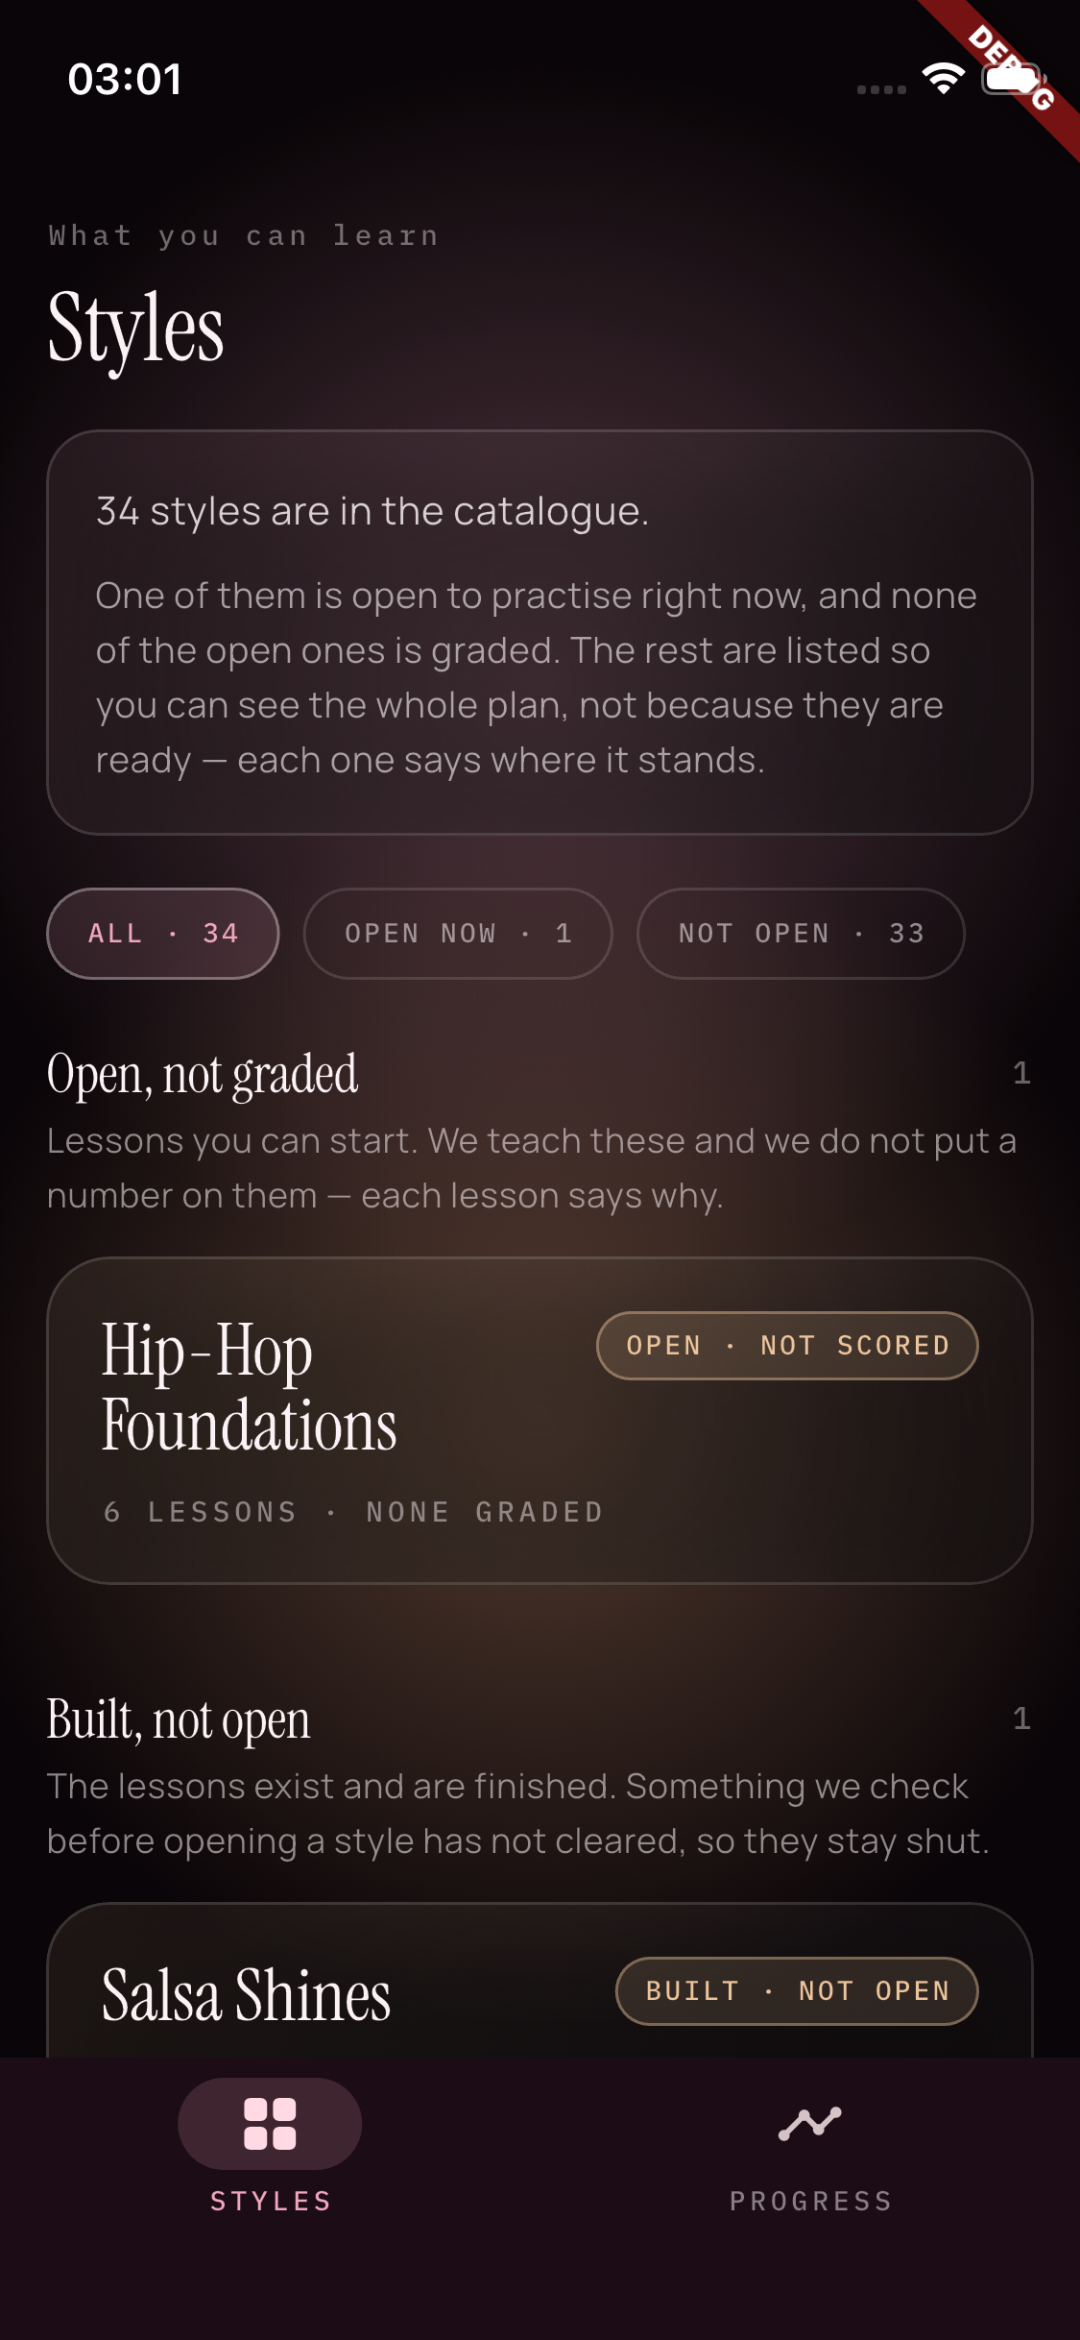
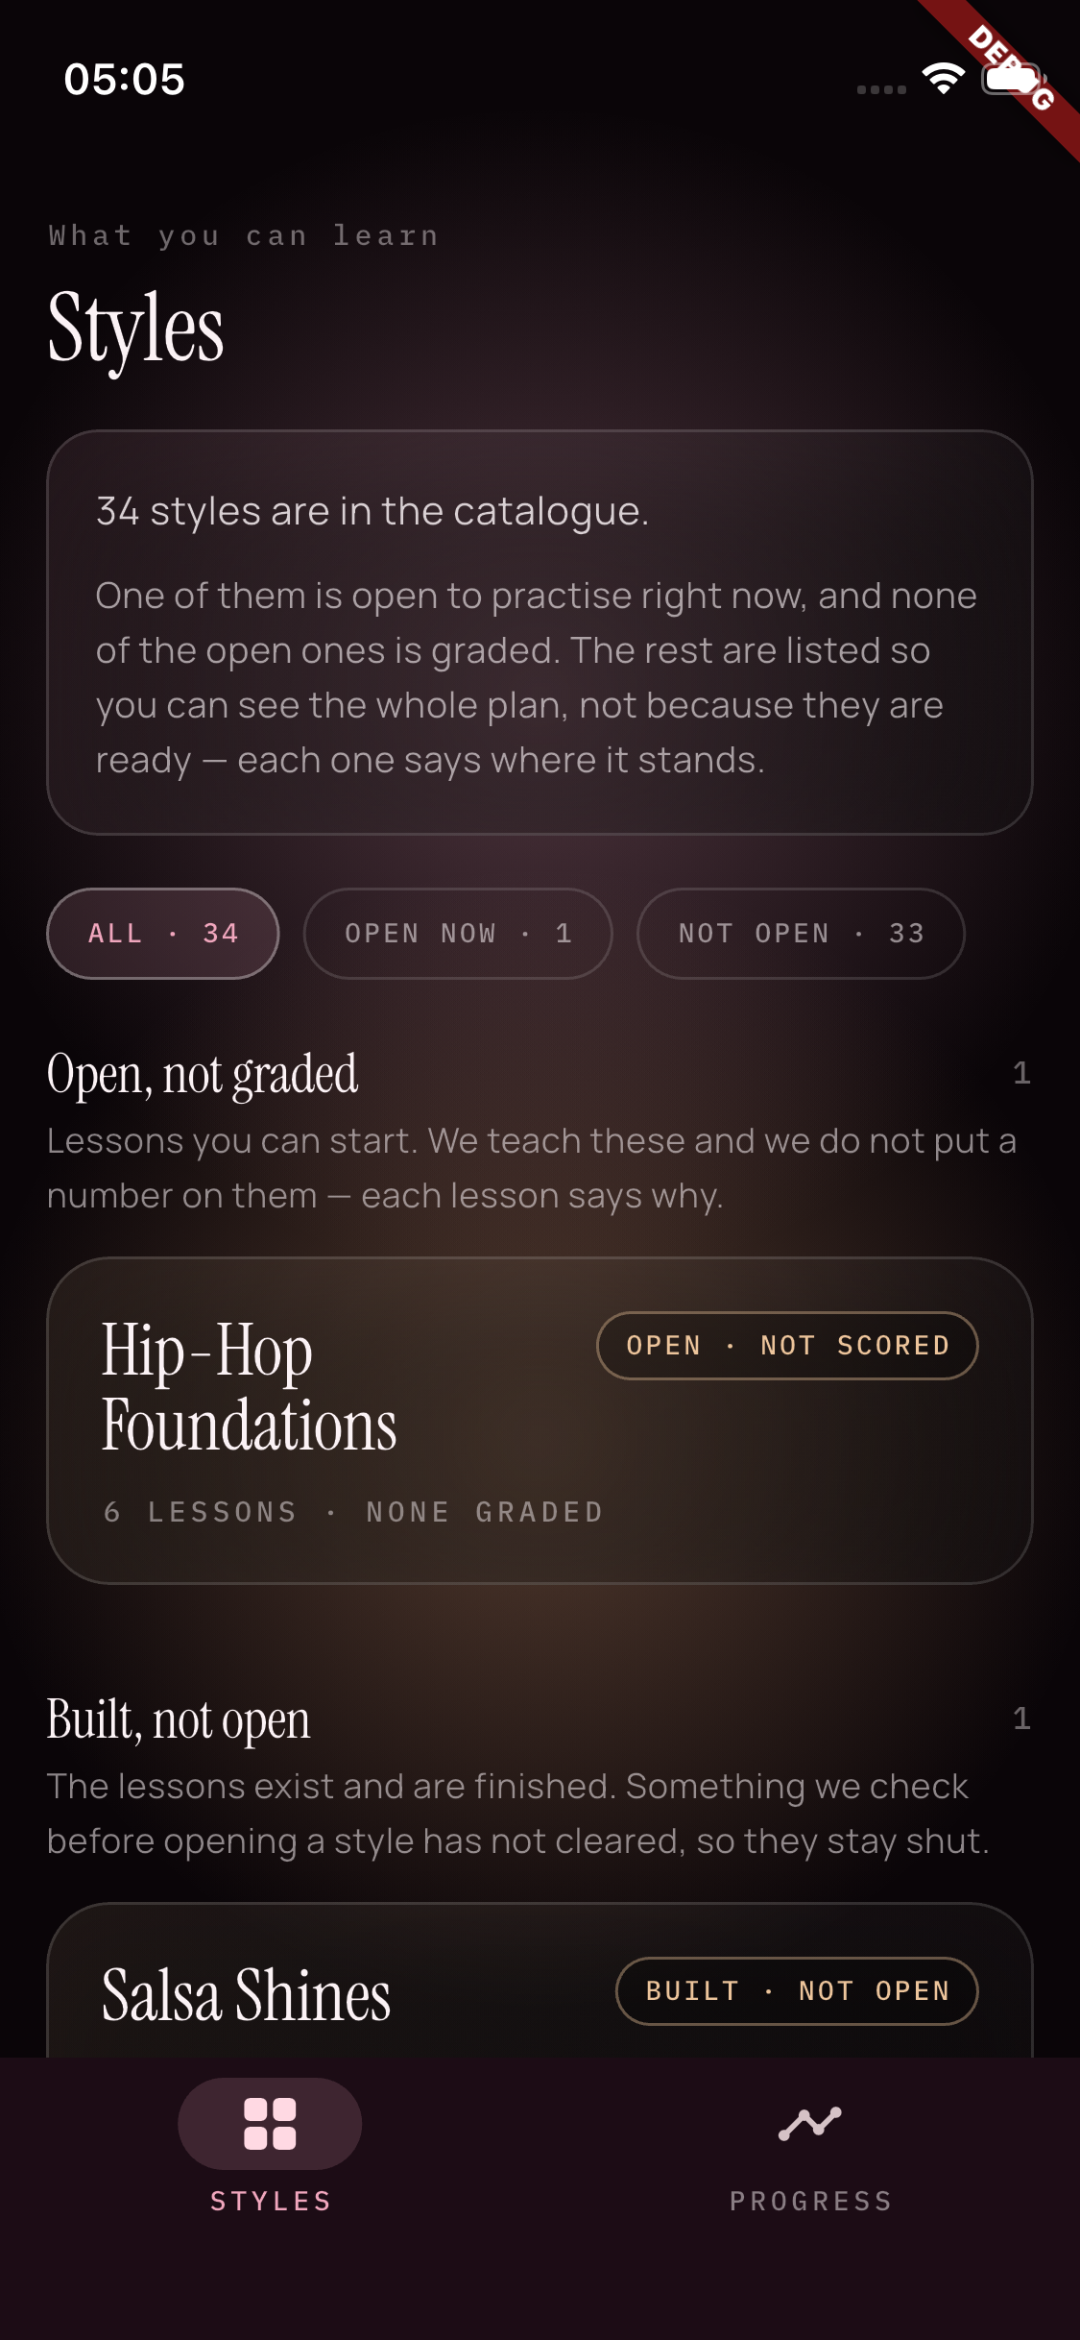
dürüst hâller görünür kılındı: WCAG kontrast kapısı (C-156, JabLab J-114)
'Görünmeyen bir dürüst hâl, susmakla aynı şeydir.'
Bende bu kör nokta DEĞİL, yazılı bir kural çarpışmasıydı: brief
demoOnly için ismen 'İKİNCİ SINIF GÖRÜNMEZ' diyor — görsel taahhüt,
yani kontrast iddiası — ve hiçbir şey ölçmüyordu. C-153'ün temizlediği
sınıfın ta kendisi.

ÖLÇÜM (en kötü hâl: ışık lekesi tepe alfada + panel tinti, alfalar
zemine BİNDİRİLEREK):
· inPreparation 2,58:1 — 3,0'ın ALTINDA, ve bu rozet 34 karonun 31'inde
  (JabLab'ın 1,80 vakasının aynısı)
· demoOnly 4,25 · scored/rose 3,70 — ikisi de 9,5px metin için 4,5 altı
→ Brief'in taahhüt ettiği rozet eşiği tutmuyordu, ve onu geçmesi gereken
  SKORLU rozet ondan da sönüktü.

KÖK SEBEP TEK, desene yazıldı: dolgu tone@0.14 idi — her rozet KENDİ
zeminini KENDİ metnine doğru aydınlatıyordu.
ÇÖZÜM, PALET DEĞİŞMEDEN: dolgu tint yerine KOYU PERDE (black@0.25).
Tone'dan bağımsız olduğu için yarın eklenecek rozet de tabanı miras
alıyor. Hue/border/tipografi aynı. inPreparation 0.35→0.65, locked
0.4→0.7.

SONUÇ: rose 6,29 · amber 7,46 · amberDeep 7,34 · inPrep 5,50 ·
locked 6,10 — hepsi 4,5 üstü, hiyerarşi korunarak (sessiz ≠ görünmez).

KAPI: WCAG 2.1 formülü standardın kendisinden (eşik icat değil).
Ölçüm aleti ÖNCE doğrulanıyor (21:1 · sıfır-alfa · bindirme rengi
gerçekten oynatmalı). HER rozet kapıda, yalnız brief'in adını andığı
değil — bir ölçülmüş vaat, dört ölçülmemişi gizler.
Karşılaştırmalı kural: demoOnly >= scored*0.8 (taahhüt karşılaştırmalı).
[…]

Changed region(s): [[0.55, 0.8111, 0.9167, 0.8735], [0.55, 0.5615, 0.9167, 0.5927], [0.0611, 0.0312, 0.1833, 0.0624]]

diff --git a/test/contrast_test.dart b/test/contrast_test.dart
@@ -1,0 +1,155 @@
+import 'dart:math' as math;
+import 'dart:ui';
+
+import 'package:choreia/app/library/library_catalog.dart';
+import 'package:choreia/app/library/library_view.dart';
+import 'package:choreia/app/theme.dart';
+import 'package:flutter/material.dart';
+import 'package:flutter_test/flutter_test.dart';
+
+/// Are the honest states actually VISIBLE?
+///
+/// The transfer that produced this file (JabLab J-114) is short: an "no
+/// analysis at all" icon measured 1.80:1 against its background, WCAG 1.4.11
+/// asks 3.0 for non-text, and the icon was in practice invisible. Its test
+/// could not see it because it asserted that three colours DIFFERED — `Color`
+/// identity. All three did differ. One of them simply could not be seen.
+///
+/// **An honest state nobody can see is the same as saying nothing.**
+///
+/// Why this file is not optional here: this line's brief makes a VISUAL promise
+/// by name — "demo-only İKİNCİ SINIF GÖRÜNMEZ — tam bir ders, yalnız skoru
+/// yok". That is a contrast claim, and until now nothing measured it. It was a
+/// hand-written assumption with nothing verifying it — the exact shape C-153
+/// cleaned out of this suite's exemption lists.
+///
+/// TWO METHOD NOTES, both carried from JabLab:
+///   1. Compute from the colour that ACTUALLY LANDS ON SCREEN — composite every
+///      alpha onto what is behind it. Reading `Color.alpha` and calling it a
+///      contrast is how 1.80:1 passed review.
+///   2. The threshold is NOT invented. WCAG is an external standard and the
+///      formula below is the standard's own.
+///
+/// AND THE LIMIT: WCAG measures LUMINANCE, not "can these two be told apart".
+/// This file closes visibility. Whether amber reads as different from rose is
+/// an eye question and stays one.
+void main() {
+  // ── WCAG 2.1, verbatim ───────────────────────────────────────────────
+
+  double channel(double c) =>
+      c <= 0.03928 ? c / 12.92 : math.pow((c + 0.055) / 1.055, 2.4).toDouble();
+
+  double luminance(Color c) =>
+      0.2126 * channel(c.r) + 0.7152 * channel(c.g) + 0.0722 * channel(c.b);
+
+  double contrast(Color a, Color b) {
+    final double la = luminance(a), lb = luminance(b);
+    final double hi = math.max(la, lb), lo = math.min(la, lb);
+    return (hi + 0.05) / (lo + 0.05);
+  }
+
+  /// `fg` painted over `bg` — the colour a camera would read off the screen.
+  Color over(Color fg, Color bg) {
+    final double a = fg.a;
+    return Color.from(
+      alpha: 1,
+      red: fg.r * a + bg.r * (1 - a),
+      green: fg.g * a + bg.g * (1 - a),
+      blue: fg.b * a + bg.b * (1 - a),
+    );
+  }
+
+  // ── The stack a pill actually sits on ────────────────────────────────
+  //
+  // Worst case is the LIGHTEST backdrop, because every foreground here is
+  // light: the backdrop's drifting blob reaches alpha 0.30 and a GlassPanel
+  // adds its own tint on top. Measuring against bare `stage` would flatter
+  // every number on this screen.
+
+  final Color stage = ChoreiaColors.stage;
+  final Color litBackdrop =
+      over(ChoreiaColors.rose.withValues(alpha: 0.30), stage);
+  final Color panel =
+      over(ChoreiaColors.rose.withValues(alpha: 0.09), litBackdrop);
+
+  /// The background a `StatusPill`'s text is read against.
+  ///
+  /// Takes no tone on purpose — the filled variant darkens with a scrim rather
+  /// than tinting with the tone (C-156), so a badge added tomorrow inherits
+  /// this floor instead of needing its own measurement. Reading the constant
+  /// from the widget rather than restating 0.25 keeps the two from drifting.
+  Color pillBackground({required Color on, required bool filled}) => filled
+      ? over(const Color(0xFF000000).withValues(alpha: StatusPill.fillScrim), on)
+      : on;
+
+  test('the compositor is right before anything is judged by it', () {
+    // Guards the instrument. Black on white is 21:1 by definition; a fully
+    // transparent foreground must leave the background untouched.
+    expect(contrast(const Color(0xFF000000), const Color(0xFFFFFFFF)),
+        closeTo(21, 0.01));
+    expect(contrast(stage, stage), closeTo(1, 0.001));
+    expect(over(const Color(0x00FFFFFF), stage), stage,
+        reason: 'a zero-alpha foreground must composite to the background — if '
+            'this fails every number below is measured against the wrong '
+            'colour');
+    // And compositing must actually MOVE the colour, or every check passes by
+    // comparing something to itself.
+    expect(over(const Color(0x80FFFFFF), stage), isNot(stage));
+  });
+
+  group('THE PROMISE: demo-only is not second class', () {
+    test('the demo-only badge is legible where it is used', () {
+      const Color tone = ChoreiaColors.amber;
+      final Color bg = pillBackground(on: panel, filled: true);
+      final double ratio = contrast(tone, bg);
+
+      expect(ratio, greaterThanOrEqualTo(4.5),
+          reason: 'the pill label is ~9.5px — normal text by WCAG 1.4.3, so '
+              '4.5:1. Measured $ratio. This badge is the most common label in '
+              "the app and the brief promises it does not look second class.");
+    });
+
+    test('EVERY badge label clears the text threshold, not just this one', () {
+      // Written after the first run of this file measured the SCORED badge at
+      // 3.70 — lower than the demo-only badge it is supposed to outrank. A
+      // gate aimed only at the badge the brief names would have left the
+      // others failing, which is how one measured promise hides four unmeasured
+      // ones.
+      for (final StyleBadge b in StyleBadge.values) {
+        final Color tone = badgeTone(b);
+        final Color bg = pillBackground(on: panel, filled: true);
+        expect(contrast(over(tone, bg), bg), greaterThanOrEqualTo(4.5),
+            reason: '$b at ${contrast(over(tone, bg), bg).toStringAsFixed(2)}:1');
+      }
+    });
+
+    test('demo-only is not dimmer than the graded badge it sits beside', () {
+      // The promise is comparative, so the measurement has to be too. A badge
+      // that clears 4.5 while the graded one clears 9 still LOOKS lesser.
+      final Color bg = pillBackground(on: panel, filled: true);
+      final double demo = contrast(ChoreiaColors.amber, bg);
+      final double scored = contrast(ChoreiaColors.rose, bg);
+
+      expect(demo, greaterThanOrEqualTo(scored * 0.8),
+          reason: 'demo-only ($demo) reads markedly fainter than graded '
+              '($scored). "Not second class" is a visual claim, and a large '
+              'contrast gap breaks it even when both are technically legible.');
+    });
+  });
+
+  group('the other honest states are visible at all', () {
+    test('every library badge tone clears the non-text threshold', () {
+      // 1.4.11 (3.0) rather than 4.5: these are the compact tiles, where the
+      // pill is unfilled and reads as a marker as much as a word. The stricter
+      // 4.5 is applied above to the badge the brief makes a promise about.
+      for (final StyleBadge b in StyleBadge.values) {
+        final Color tone = badgeTone(b);
+        final Color bg = pillBackground(on: litBackdrop, filled: false);
+        final double ratio = contrast(over(tone, bg), bg);
+        expect(ratio, greaterThanOrEqualTo(4.5),
+            reason: '$b renders at ${ratio.toStringAsFixed(2)}:1 — an honest '
+                'state nobody can see is the same as saying nothing');
+      }
+    });
+  });
+}

diff --git a/lib/app/theme.dart b/lib/app/theme.dart
@@ -371,10 +371,25 @@ class StatusRing extends StatelessWidget {
   }
 }
 
-/// A named-status pill — "SCORED", "OPEN · NOT SCORED", "IN PREPARATION" and
-/// this app's own live/progress equivalents. Mono type; [filled] draws the
-/// tinted-and-bordered treatment the design reserves for a state that IS,
-/// leaving the hollow outline for a state that is named but not active yet.
+/// A named-status pill — "SCORED", "OPEN · NOT SCORED", "NOT BUILT" and this
+/// app's own live/progress equivalents. Mono type; [filled] draws the solid
+/// treatment the design reserves for a state that IS, leaving the hollow
+/// outline for a state that is named but not active.
+///
+/// THE FILL DARKENS, IT DOES NOT TINT (C-156)
+/// ------------------------------------------
+/// It used to be `tone.withValues(alpha: 0.14)` — the tone itself, lightening
+/// the pill. On a dark app with light labels that works against legibility:
+/// every pill raised its own background toward its own text. Measured against
+/// the worst-case backdrop (drifting blob at peak, plus a GlassPanel tint), the
+/// scored badge came out at **3.70:1** and the demo-only badge at **4.25:1**,
+/// both under the 4.5 WCAG 1.4.3 asks of text this size — and the brief makes a
+/// promise about the second one by name.
+///
+/// A scrim fixes every tone at once, which a per-tone tweak could not: the fill
+/// no longer depends on the tone, so a badge added tomorrow inherits the floor
+/// instead of needing its own measurement. The palette is untouched — same
+/// hues, same border, same type.
 class StatusPill extends StatelessWidget {
   const StatusPill(
       {super.key, required this.label, required this.tone, this.filled = true});
@@ -383,12 +398,18 @@ class StatusPill extends StatelessWidget {
   final Color tone;
   final bool filled;
 
+  /// How far the filled variant darkens what is behind it. Pinned by
+  /// `contrast_test.dart`; lowering it lowers every badge in the app.
+  static const double fillScrim = 0.25;
+
   @override
   Widget build(BuildContext context) => Container(
         padding: const EdgeInsets.symmetric(horizontal: 9, vertical: 4),
         decoration: BoxDecoration(
           borderRadius: BorderRadius.circular(999),
-          color: filled ? tone.withValues(alpha: 0.14) : null,
+          color: filled
+              ? Colors.black.withValues(alpha: fillScrim)
+              : null,
           border: Border.all(color: tone.withValues(alpha: filled ? 0.4 : 0.55)),
         ),
         child: Text(label,

diff --git a/lib/app/library/library_view.dart b/lib/app/library/library_view.dart
@@ -302,18 +302,33 @@ class _LibraryViewState extends State<LibraryView> {
   String? _reason(StyleCard c) =>
       c.entry.onHoldReason ?? c.view.userFacingReason;
 
-  /// Rose carries a VERDICT, amber carries a STATUS (design brief §2 — the two
-  /// tones are a language and do not mix on one element). Nothing in this
-  /// catalogue is a verdict about the dancer, so rose appears only on the
-  /// scored badge, where it marks the presence of grading itself.
-  Color _tone(StyleBadge b) => switch (b) {
-        StyleBadge.scored => ChoreiaColors.rose,
-        StyleBadge.openUngraded => ChoreiaColors.amber,
-        StyleBadge.builtButGated => ChoreiaColors.amber,
-        StyleBadge.onHold => ChoreiaColors.amberDeep,
-        StyleBadge.inPreparation => ChoreiaColors.text(0.35),
-      };
+  Color _tone(StyleBadge b) => badgeTone(b);
 }
+
+/// The badge tone map — ONE copy.
+///
+/// Rose carries a VERDICT, amber carries a STATUS (design brief §2 — the two
+/// tones are a language and do not mix on one element). Nothing in this
+/// catalogue is a verdict about the dancer, so rose appears only on the scored
+/// badge, where it marks the presence of grading itself.
+///
+/// Public and top-level because it was DUPLICATED: an identical switch lived in
+/// `style_detail_view.dart`, so a tile and its own page could have disagreed
+/// about a style's colour after any one-sided edit. The duplication surfaced
+/// when `contrast_test.dart` needed to measure these tones and found two
+/// candidates for the truth — the same "two copies of a truth drift" rule this
+/// app applies to derived data (C-091), reaching styling.
+Color badgeTone(StyleBadge b) => switch (b) {
+      StyleBadge.scored => ChoreiaColors.rose,
+      StyleBadge.openUngraded => ChoreiaColors.amber,
+      StyleBadge.builtButGated => ChoreiaColors.amber,
+      StyleBadge.onHold => ChoreiaColors.amberDeep,
+      // 0.65, not 0.35. At 0.35 this measured 2.58:1 — below even the 3.0
+      // WCAG asks of non-text, on the badge worn by 31 of the 34 tiles. An
+      // honest state nobody can see is the same as saying nothing (C-156).
+      // It is still the quietest tone here; quiet is not the same as invisible.
+      StyleBadge.inPreparation => ChoreiaColors.text(0.65),
+    };
 
 /// Every user-facing string on the catalogue screen.
 ///

diff --git a/lib/app/library/style_detail_view.dart b/lib/app/library/style_detail_view.dart
@@ -295,7 +295,10 @@ class StyleDetailView extends StatelessWidget {
     final Color tone = switch (l.kind) {
       LessonKind.scored => ChoreiaColors.rose,
       LessonKind.demoOnly => ChoreiaColors.amber,
-      LessonKind.locked => ChoreiaColors.text(0.4),
+      // 0.7, not 0.4 — same measurement as the inPreparation badge (C-156).
+      // A locked lesson names the measurement it is missing; that sentence is
+      // worth nothing if its own label cannot be read.
+      LessonKind.locked => ChoreiaColors.text(0.7),
     };
 
     return GlassPanel(
@@ -407,13 +410,10 @@ class StyleDetailView extends StatelessWidget {
         ),
       );
 
-  Color _badgeTone() => switch (card.badge) {
-        StyleBadge.scored => ChoreiaColors.rose,
-        StyleBadge.openUngraded => ChoreiaColors.amber,
-        StyleBadge.builtButGated => ChoreiaColors.amber,
-        StyleBadge.onHold => ChoreiaColors.amberDeep,
-        StyleBadge.inPreparation => ChoreiaColors.text(0.35),
-      };
+  /// The SAME map the catalogue tile uses — see `badgeTone`. This used to be a
+  /// second copy of the switch, which meant a tile and its page could drift
+  /// apart on any one-sided edit.
+  Color _badgeTone() => badgeTone(card.badge);
 }
 
 /// The style page's copy.
